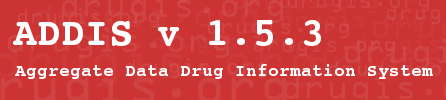
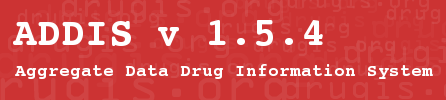
1.5.4 dev release automated changes

Changed region(s): [[0.6704, 0.18, 0.7287, 0.48]]

diff --git a/src/test/java/org/drugis/addis/util/JAXBConvertorTest.java b/src/test/java/org/drugis/addis/util/JAXBConvertorTest.java
@@ -1,3 +1,25 @@
+/*
+ * This file is part of ADDIS (Aggregate Data Drug Information System).
+ * ADDIS is distributed from http://drugis.org/.
+ * Copyright (C) 2009 Gert van Valkenhoef, Tommi Tervonen.
+ * Copyright (C) 2010 Gert van Valkenhoef, Tommi Tervonen, 
+ * Tijs Zwinkels, Maarten Jacobs, Hanno Koeslag, Florin Schimbinschi, 
+ * Ahmad Kamal, Daniel Reid.
+ *
+ * This program is free software: you can redistribute it and/or modify
+ * it under the terms of the GNU General Public License as published by
+ * the Free Software Foundation, either version 3 of the License, or
+ * (at your option) any later version.
+ *
+ * This program is distributed in the hope that it will be useful,
+ * but WITHOUT ANY WARRANTY; without even the implied warranty of
+ * MERCHANTABILITY or FITNESS FOR A PARTICULAR PURPOSE.  See the
+ * GNU General Public License for more details.
+ *
+ * You should have received a copy of the GNU General Public License
+ * along with this program.  If not, see <http://www.gnu.org/licenses/>.
+ */
+
 package org.drugis.addis.util;
 
 import static org.drugis.addis.entities.AssertEntityEquals.assertDomainEquals;

diff --git a/src/test/java/org/drugis/addis/util/JAXBHandlerTest.java b/src/test/java/org/drugis/addis/util/JAXBHandlerTest.java
@@ -1,3 +1,25 @@
+/*
+ * This file is part of ADDIS (Aggregate Data Drug Information System).
+ * ADDIS is distributed from http://drugis.org/.
+ * Copyright (C) 2009 Gert van Valkenhoef, Tommi Tervonen.
+ * Copyright (C) 2010 Gert van Valkenhoef, Tommi Tervonen, 
+ * Tijs Zwinkels, Maarten Jacobs, Hanno Koeslag, Florin Schimbinschi, 
+ * Ahmad Kamal, Daniel Reid.
+ *
+ * This program is free software: you can redistribute it and/or modify
+ * it under the terms of the GNU General Public License as published by
+ * the Free Software Foundation, either version 3 of the License, or
+ * (at your option) any later version.
+ *
+ * This program is distributed in the hope that it will be useful,
+ * but WITHOUT ANY WARRANTY; without even the implied warranty of
+ * MERCHANTABILITY or FITNESS FOR A PARTICULAR PURPOSE.  See the
+ * GNU General Public License for more details.
+ *
+ * You should have received a copy of the GNU General Public License
+ * along with this program.  If not, see <http://www.gnu.org/licenses/>.
+ */
+
 package org.drugis.addis.util;
 
 import static org.junit.Assert.assertEquals;

diff --git a/src/main/java/org/drugis/addis/util/JAXBConvertor.java b/src/main/java/org/drugis/addis/util/JAXBConvertor.java
@@ -1,3 +1,25 @@
+/*
+ * This file is part of ADDIS (Aggregate Data Drug Information System).
+ * ADDIS is distributed from http://drugis.org/.
+ * Copyright (C) 2009 Gert van Valkenhoef, Tommi Tervonen.
+ * Copyright (C) 2010 Gert van Valkenhoef, Tommi Tervonen, 
+ * Tijs Zwinkels, Maarten Jacobs, Hanno Koeslag, Florin Schimbinschi, 
+ * Ahmad Kamal, Daniel Reid.
+ *
+ * This program is free software: you can redistribute it and/or modify
+ * it under the terms of the GNU General Public License as published by
+ * the Free Software Foundation, either version 3 of the License, or
+ * (at your option) any later version.
+ *
+ * This program is distributed in the hope that it will be useful,
+ * but WITHOUT ANY WARRANTY; without even the implied warranty of
+ * MERCHANTABILITY or FITNESS FOR A PARTICULAR PURPOSE.  See the
+ * GNU General Public License for more details.
+ *
+ * You should have received a copy of the GNU General Public License
+ * along with this program.  If not, see <http://www.gnu.org/licenses/>.
+ */
+
 package org.drugis.addis.util;
 
 import java.io.ByteArrayInputStream;

diff --git a/src/test/java/org/drugis/addis/entities/ObjectWithNotes.java b/src/test/java/org/drugis/addis/entities/ObjectWithNotes.java
@@ -1,3 +1,25 @@
+/*
+ * This file is part of ADDIS (Aggregate Data Drug Information System).
+ * ADDIS is distributed from http://drugis.org/.
+ * Copyright (C) 2009 Gert van Valkenhoef, Tommi Tervonen.
+ * Copyright (C) 2010 Gert van Valkenhoef, Tommi Tervonen, 
+ * Tijs Zwinkels, Maarten Jacobs, Hanno Koeslag, Florin Schimbinschi, 
+ * Ahmad Kamal, Daniel Reid.
+ *
+ * This program is free software: you can redistribute it and/or modify
+ * it under the terms of the GNU General Public License as published by
+ * the Free Software Foundation, either version 3 of the License, or
+ * (at your option) any later version.
+ *
+ * This program is distributed in the hope that it will be useful,
+ * but WITHOUT ANY WARRANTY; without even the implied warranty of
+ * MERCHANTABILITY or FITNESS FOR A PARTICULAR PURPOSE.  See the
+ * GNU General Public License for more details.
+ *
+ * You should have received a copy of the GNU General Public License
+ * along with this program.  If not, see <http://www.gnu.org/licenses/>.
+ */
+
 package org.drugis.addis.entities;
 
 import java.util.ArrayList;

diff --git a/src/main/java/org/drugis/addis/imports/PubMedDataBankRetriever.java b/src/main/java/org/drugis/addis/imports/PubMedDataBankRetriever.java
@@ -1,3 +1,25 @@
+/*
+ * This file is part of ADDIS (Aggregate Data Drug Information System).
+ * ADDIS is distributed from http://drugis.org/.
+ * Copyright (C) 2009 Gert van Valkenhoef, Tommi Tervonen.
+ * Copyright (C) 2010 Gert van Valkenhoef, Tommi Tervonen, 
+ * Tijs Zwinkels, Maarten Jacobs, Hanno Koeslag, Florin Schimbinschi, 
+ * Ahmad Kamal, Daniel Reid.
+ *
+ * This program is free software: you can redistribute it and/or modify
+ * it under the terms of the GNU General Public License as published by
+ * the Free Software Foundation, either version 3 of the License, or
+ * (at your option) any later version.
+ *
+ * This program is distributed in the hope that it will be useful,
+ * but WITHOUT ANY WARRANTY; without even the implied warranty of
+ * MERCHANTABILITY or FITNESS FOR A PARTICULAR PURPOSE.  See the
+ * GNU General Public License for more details.
+ *
+ * You should have received a copy of the GNU General Public License
+ * along with this program.  If not, see <http://www.gnu.org/licenses/>.
+ */
+
 package org.drugis.addis.imports;
 
 import java.io.IOException;

diff --git a/src/main/java/org/drugis/addis/gui/NoteView.java b/src/main/java/org/drugis/addis/gui/NoteView.java
@@ -1,3 +1,25 @@
+/*
+ * This file is part of ADDIS (Aggregate Data Drug Information System).
+ * ADDIS is distributed from http://drugis.org/.
+ * Copyright (C) 2009 Gert van Valkenhoef, Tommi Tervonen.
+ * Copyright (C) 2010 Gert van Valkenhoef, Tommi Tervonen, 
+ * Tijs Zwinkels, Maarten Jacobs, Hanno Koeslag, Florin Schimbinschi, 
+ * Ahmad Kamal, Daniel Reid.
+ *
+ * This program is free software: you can redistribute it and/or modify
+ * it under the terms of the GNU General Public License as published by
+ * the Free Software Foundation, either version 3 of the License, or
+ * (at your option) any later version.
+ *
+ * This program is distributed in the hope that it will be useful,
+ * but WITHOUT ANY WARRANTY; without even the implied warranty of
+ * MERCHANTABILITY or FITNESS FOR A PARTICULAR PURPOSE.  See the
+ * GNU General Public License for more details.
+ *
+ * You should have received a copy of the GNU General Public License
+ * along with this program.  If not, see <http://www.gnu.org/licenses/>.
+ */
+
 package org.drugis.addis.gui;
 
 import java.awt.BorderLayout;

diff --git a/src/main/java/org/drugis/addis/util/JAXBHandler.java b/src/main/java/org/drugis/addis/util/JAXBHandler.java
@@ -1,3 +1,25 @@
+/*
+ * This file is part of ADDIS (Aggregate Data Drug Information System).
+ * ADDIS is distributed from http://drugis.org/.
+ * Copyright (C) 2009 Gert van Valkenhoef, Tommi Tervonen.
+ * Copyright (C) 2010 Gert van Valkenhoef, Tommi Tervonen, 
+ * Tijs Zwinkels, Maarten Jacobs, Hanno Koeslag, Florin Schimbinschi, 
+ * Ahmad Kamal, Daniel Reid.
+ *
+ * This program is free software: you can redistribute it and/or modify
+ * it under the terms of the GNU General Public License as published by
+ * the Free Software Foundation, either version 3 of the License, or
+ * (at your option) any later version.
+ *
+ * This program is distributed in the hope that it will be useful,
+ * but WITHOUT ANY WARRANTY; without even the implied warranty of
+ * MERCHANTABILITY or FITNESS FOR A PARTICULAR PURPOSE.  See the
+ * GNU General Public License for more details.
+ *
+ * You should have received a copy of the GNU General Public License
+ * along with this program.  If not, see <http://www.gnu.org/licenses/>.
+ */
+
 package org.drugis.addis.util;
 
 import java.io.InputStream;

diff --git a/src/main/java/org/drugis/addis/gui/NoteViewButton.java b/src/main/java/org/drugis/addis/gui/NoteViewButton.java
@@ -1,3 +1,25 @@
+/*
+ * This file is part of ADDIS (Aggregate Data Drug Information System).
+ * ADDIS is distributed from http://drugis.org/.
+ * Copyright (C) 2009 Gert van Valkenhoef, Tommi Tervonen.
+ * Copyright (C) 2010 Gert van Valkenhoef, Tommi Tervonen, 
+ * Tijs Zwinkels, Maarten Jacobs, Hanno Koeslag, Florin Schimbinschi, 
+ * Ahmad Kamal, Daniel Reid.
+ *
+ * This program is free software: you can redistribute it and/or modify
+ * it under the terms of the GNU General Public License as published by
+ * the Free Software Foundation, either version 3 of the License, or
+ * (at your option) any later version.
+ *
+ * This program is distributed in the hope that it will be useful,
+ * but WITHOUT ANY WARRANTY; without even the implied warranty of
+ * MERCHANTABILITY or FITNESS FOR A PARTICULAR PURPOSE.  See the
+ * GNU General Public License for more details.
+ *
+ * You should have received a copy of the GNU General Public License
+ * along with this program.  If not, see <http://www.gnu.org/licenses/>.
+ */
+
 package org.drugis.addis.gui;
 
 import java.awt.Window;
